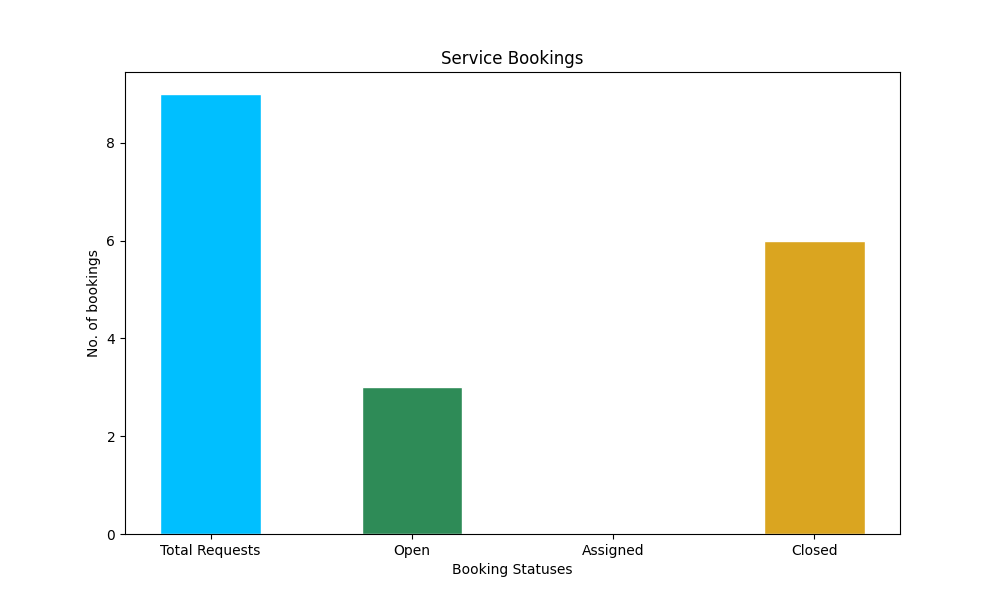
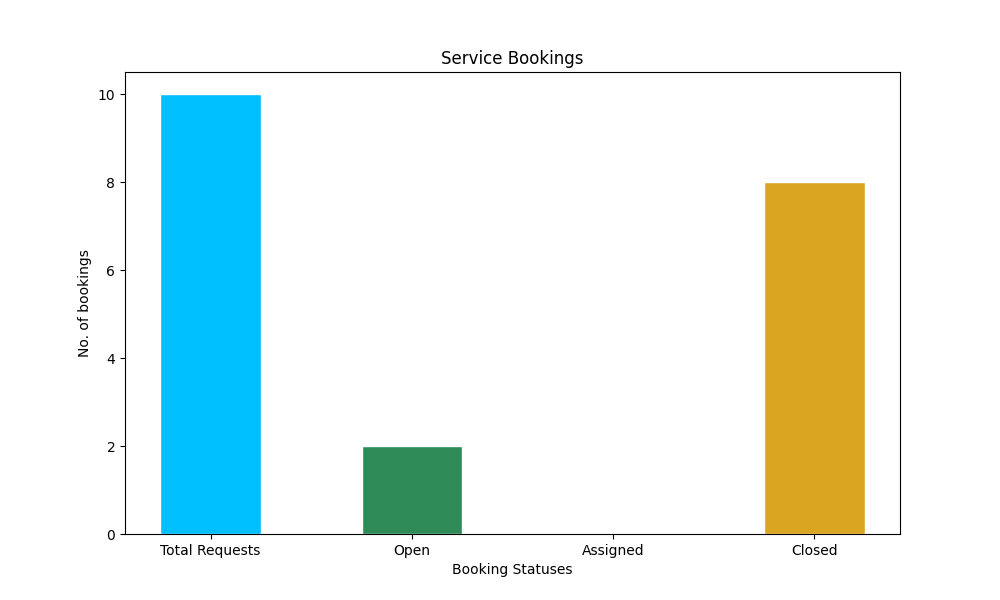
Add files via upload

diff --git a/templates/customer_dashboard.html b/templates/customer_dashboard.html
@@ -76,6 +76,8 @@
                             {% endif %}
                             {% if request["Status"] == "Accepted" %}         
                                 <td><a href="/{{user.User_ID}}/customer_close_request/{{request['Request ID']}}"><button>Close it</button></a></td>
+                            {% elif request["Status"] == "Open" %}
+                                <td><a href="/{{user.User_ID}}/customer_delete_request/{{request['Request ID']}}"><button>Delete</button></a></td>    
                             {% else %}
                                 <td>{{request["Status"]}}</td>
                             {% endif %}
